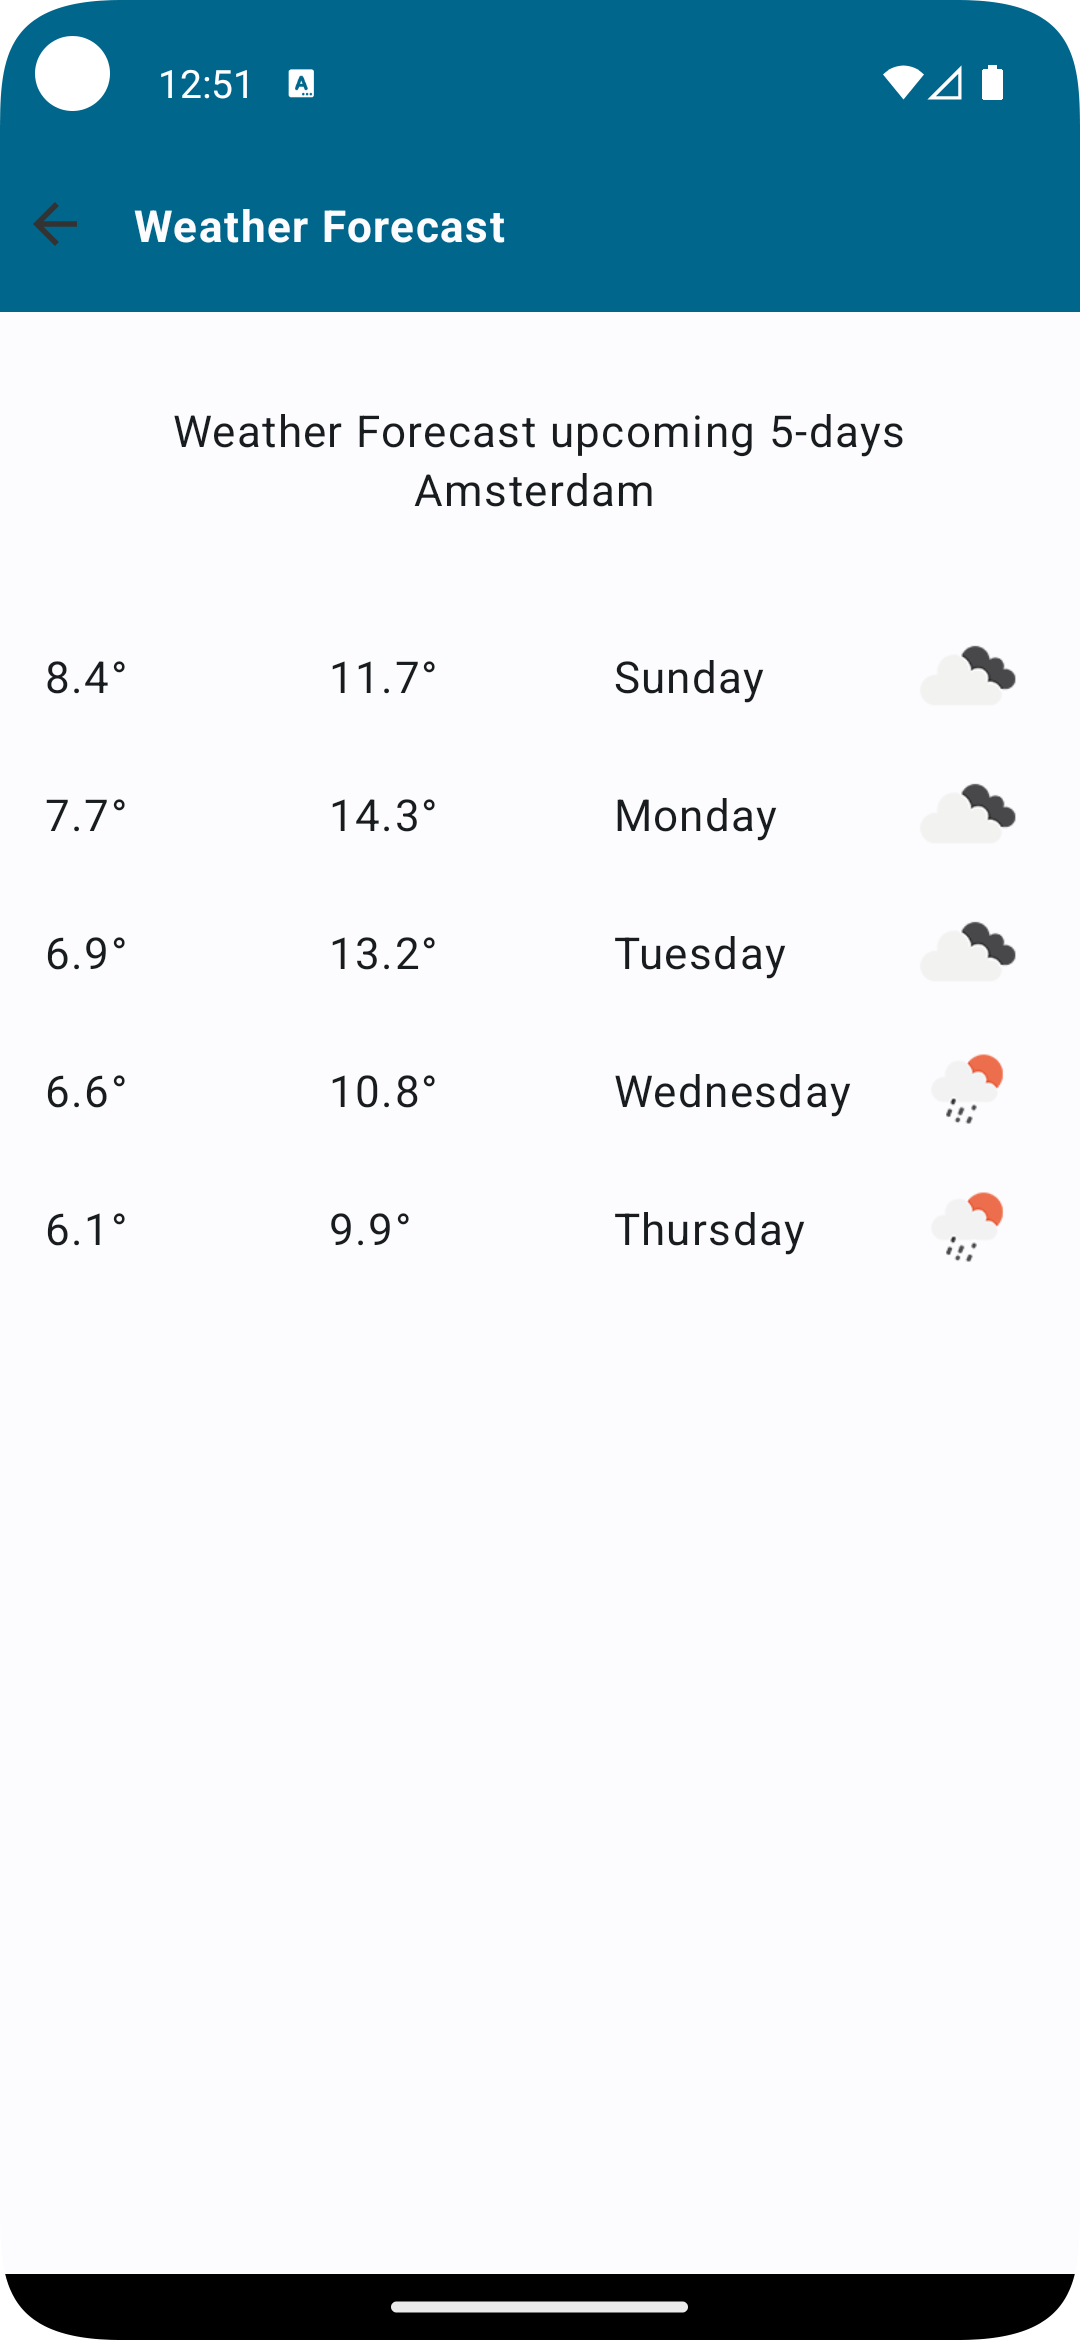
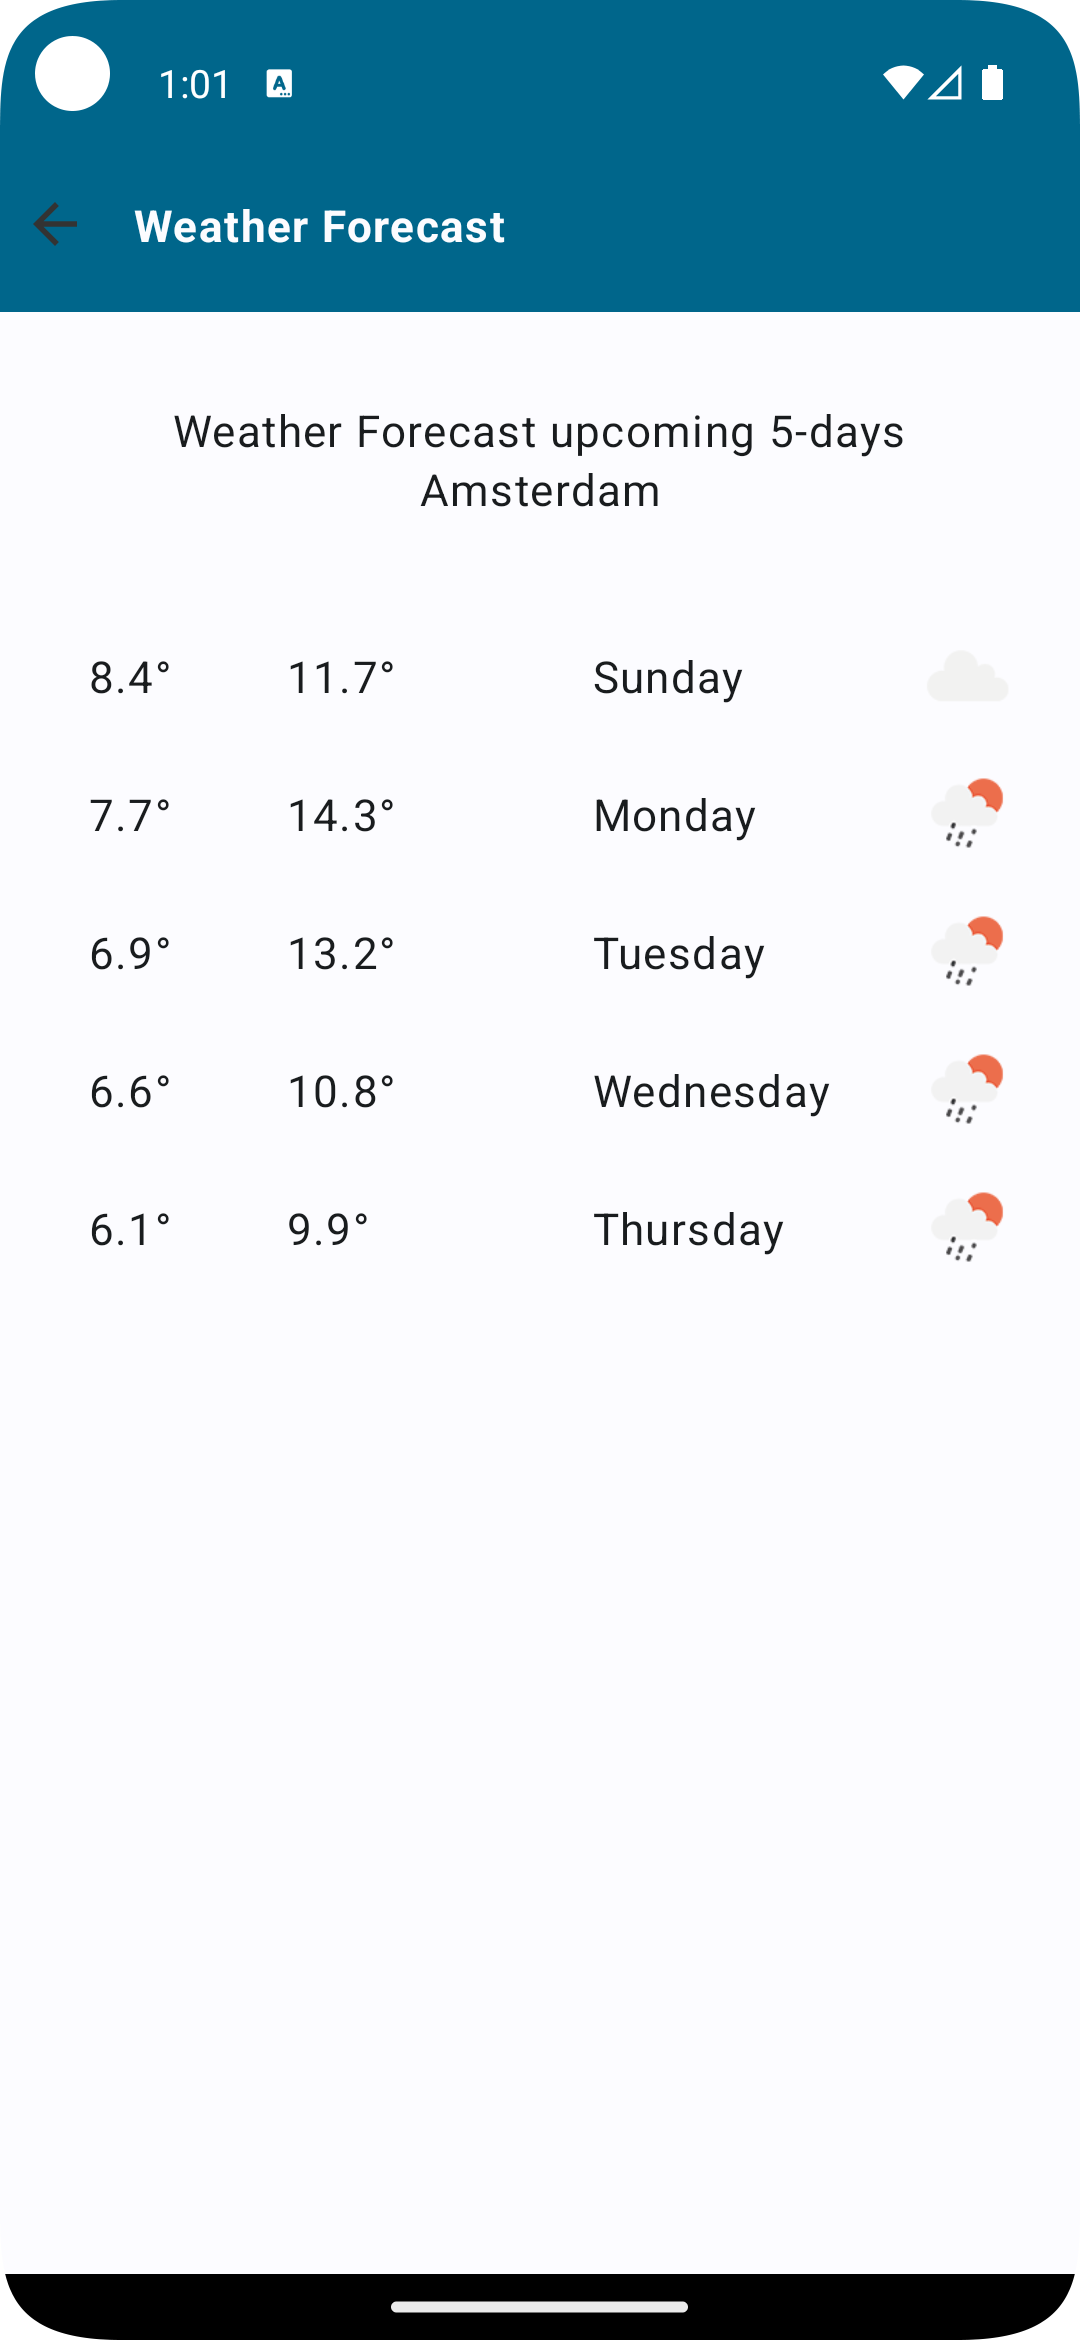
adjustments for spacing between min and max temp adding new image of weather prediction screen for readme file

diff --git a/app/src/main/java/com/example/simpleapp/weather/prediction/WeatherPredictionScreen.kt b/app/src/main/java/com/example/simpleapp/weather/prediction/WeatherPredictionScreen.kt
@@ -32,7 +32,7 @@ import simpleapp.presentation.prediction.WeatherPredictionUIModel
 import simpleapp.presentation.prediction.WeatherPredictionViewModel
 import simpleapp.presentation.weather.CityArgs
 
-val ICON_SIZE =  Size(50.dp.value, 50.dp.value)
+val ICON_SIZE = Size(50.dp.value, 50.dp.value)
 
 @RequiresApi(Build.VERSION_CODES.O)
 @Destination
@@ -123,7 +123,7 @@ private fun WeatherPredictionContentScreen(
         verticalArrangement = Arrangement.Center
     ) {
         item { Body1StringRes(R.string.weather_prediction_subtitle_text) }
-        item { Body1(cityArgs.city, modifier =  Modifier.padding(bottom = x4)) }
+        item { Body1(cityArgs.city, modifier = Modifier.padding(bottom = x4)) }
         items(weatherPredictionUIModel.icon.size) {
             Column(
                 modifier = Modifier.fillMaxWidth(),
@@ -133,11 +133,25 @@ private fun WeatherPredictionContentScreen(
                 Row(
                     verticalAlignment = Alignment.CenterVertically,
                     horizontalArrangement = Arrangement.SpaceAround,
-                    modifier = Modifier.fillMaxWidth()
+                    modifier = Modifier
+                        .padding(start = x2)
+                        .fillMaxWidth()
                 ) {
-                    Body1(weatherPredictionUIModel.minTemp[it], textAlign = TextAlign.Start, modifier = Modifier.weight(1F))
-                    Body1(weatherPredictionUIModel.maxTemp[it], textAlign = TextAlign.Start, modifier = Modifier.weight(1F))
-                    Body1(weatherPredictionUIModel.dayOfWeek[it], textAlign = TextAlign.Start, modifier = Modifier.weight(1F))
+                    Body1(
+                        weatherPredictionUIModel.minTemp[it],
+                        textAlign = TextAlign.Start,
+                        modifier = Modifier.weight(0.65F)
+                    )
+                    Body1(
+                        weatherPredictionUIModel.maxTemp[it],
+                        textAlign = TextAlign.Start,
+                        modifier = Modifier.weight(1F)
+                    )
+                    Body1(
+                        weatherPredictionUIModel.dayOfWeek[it],
+                        textAlign = TextAlign.Start,
+                        modifier = Modifier.weight(1F)
+                    )
                     Image(
                         painter = rememberAsyncImagePainter(weatherPredictionUIModel.icon[it]),
                         contentScale = ContentScale.Crop,
